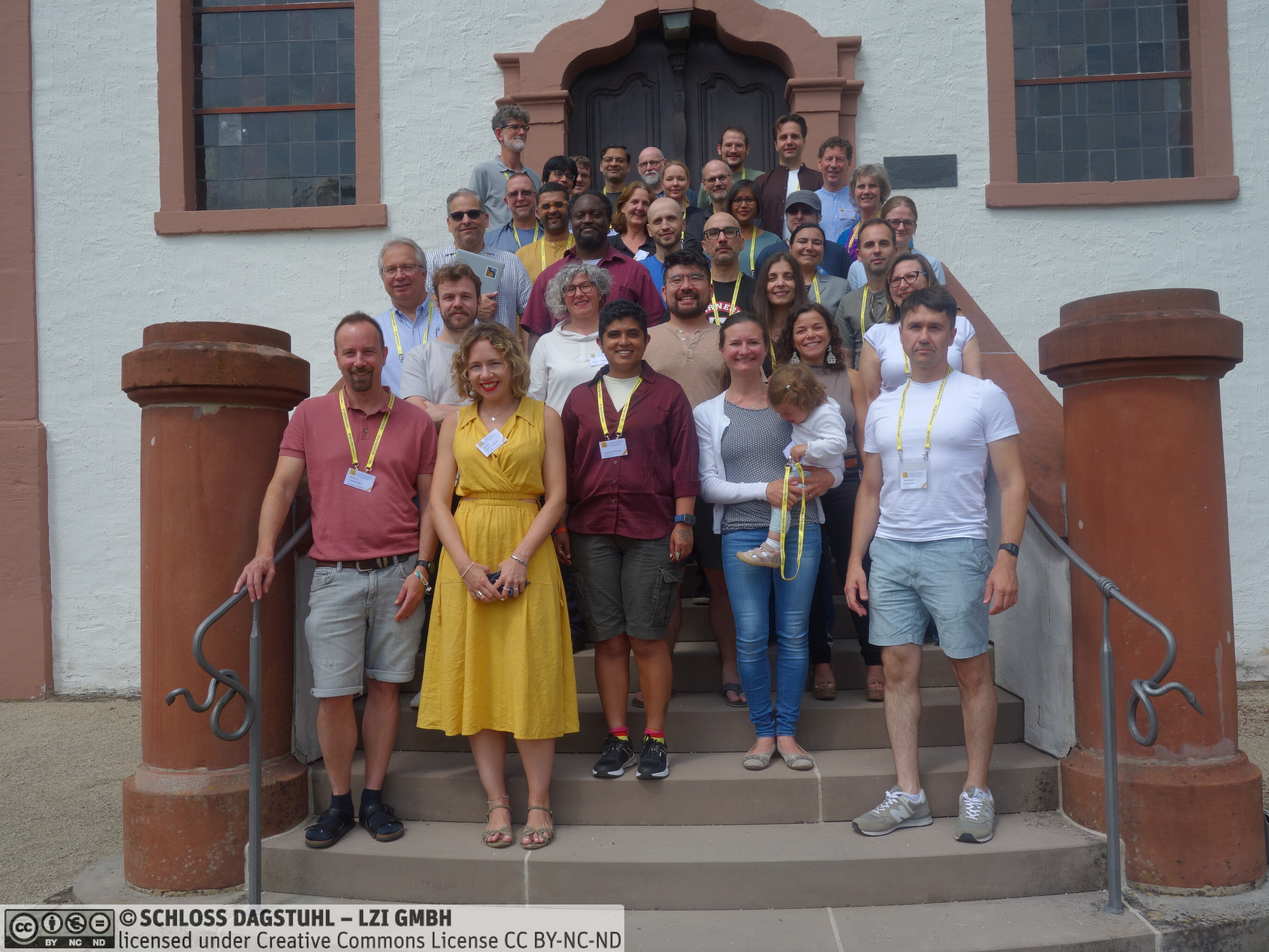
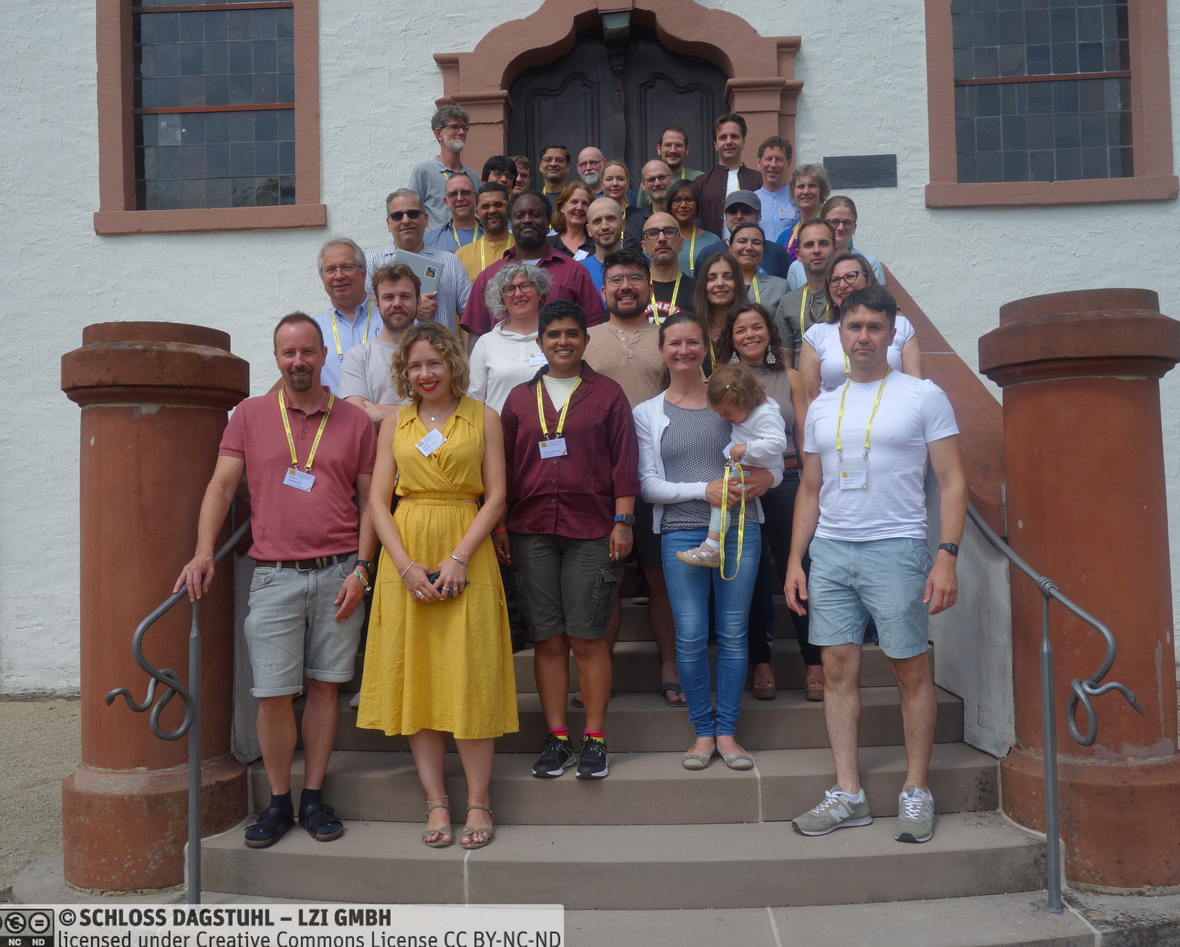
drafted dagstuhl

diff --git a/_projects/dagstuh2025.md b/_projects/dagstuh2025.md
@@ -1,0 +1,33 @@
+---
+layout: page
+title: Dagstuhl 2025
+description: Dagstuhl Seminar 25291 - (Actual) Neurosymbolic AI: Combining Deep Learning and Knowledge Graphs, 13-18 Jul 2025 
+img: assets/img/meetups/dagstuhl2025.jpg
+importance: 2
+category: Meetups
+related_publications: true
+---
+
+<div class="row">
+    <div class="col-sm mt-3 mt-md-0">
+        {% include figure.liquid loading="eager" path="assets/img/meetups/dagstuhl2025.jpg" title="Dagstuhl July 2025" class="img-fluid rounded z-depth-1" %}
+    </div>
+</div>
+
+
+Most of the network participants were invited to attend the [Dagstuhl Seminar 25291](https://www.dagstuhl.de/seminars/seminar-calendar/seminar-details/25291) on (Actual) Neurosymbolic AI: Combining Deep Learning and Knowledge Graphs. Pascal Hitzler, a member of the Network was one of the co-organisers.
+
+Over the past decade, **deep learning (DL)** and **knowledge graphs (KGs)** have achieved major breakthroughs. DL has advanced through large-scale data, transformer models, and modern hardware, while KGs have matured thanks to web-scale integration, standardization, and improved reasoning methods. These parallel developments have sparked growing interest in how the two can complement each other.
+
+Although DL models—especially large language models (LLMs)—excel across many tasks, they often struggle with factual accuracy. In contrast, **KGs provide structured, curated knowledge** that supports transparency and reasoning, though their creation remains resource-intensive.
+
+This **Dagstuhl Seminar** explored how to bridge DL and KGs through **neurosymbolic AI**, focusing on:
+- Grounding neural models in symbolic knowledge  
+- Enhancing explainability, robustness, and causal reasoning  
+- Using DL to automate KG construction  
+- Exploring biologically inspired approaches for human-like learning
+
+A dedicated working group examined real-world applications, identifying (bio)medicine as a particularly relevant and impactful domain for neurosymbolic AI.
+
+_A report and white paper is currently being finalized_.
+

diff --git a/_projects/zurich2024.md b/_projects/zurich2024.md
@@ -1,9 +1,9 @@
 ---
 layout: page
-title: Zurich 2024 Meeting
+title: Zurich 2024
 description: Kick-off Meeting, 4–5 July 2024
 img: assets/img/meetups/zurich2024-crop.jpg
-importance: 2
+importance: 1
 category: Meetups
 giscus_comments: false
 ---
